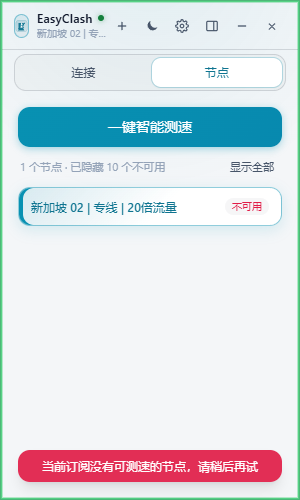
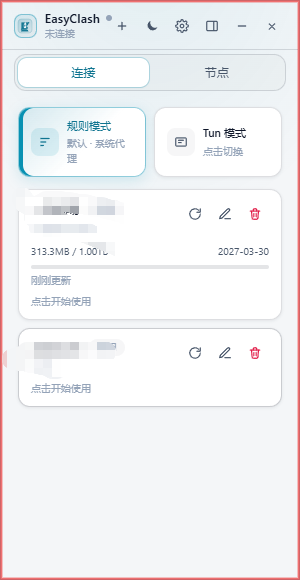
Update README screenshots for connection, settings, and nodes pages

diff --git a/README.md b/README.md
@@ -6,6 +6,10 @@
 
 ![连接页](docs/screenshots/home.png)
 
+![设置页](docs/screenshots/settings.png)
+
+![节点页](docs/screenshots/nodes.png)
+
 技术栈：Go + Wails v2 + Vue 3 + Pinia + TailwindCSS，底层引擎为 [mihomo](https://github.com/MetaCubeX/mihomo)（Clash.Meta）。安装包已内置 `mihomo.exe`；如果只用绿色版 exe，需要自行把内核放到同一目录。
 
 ---
